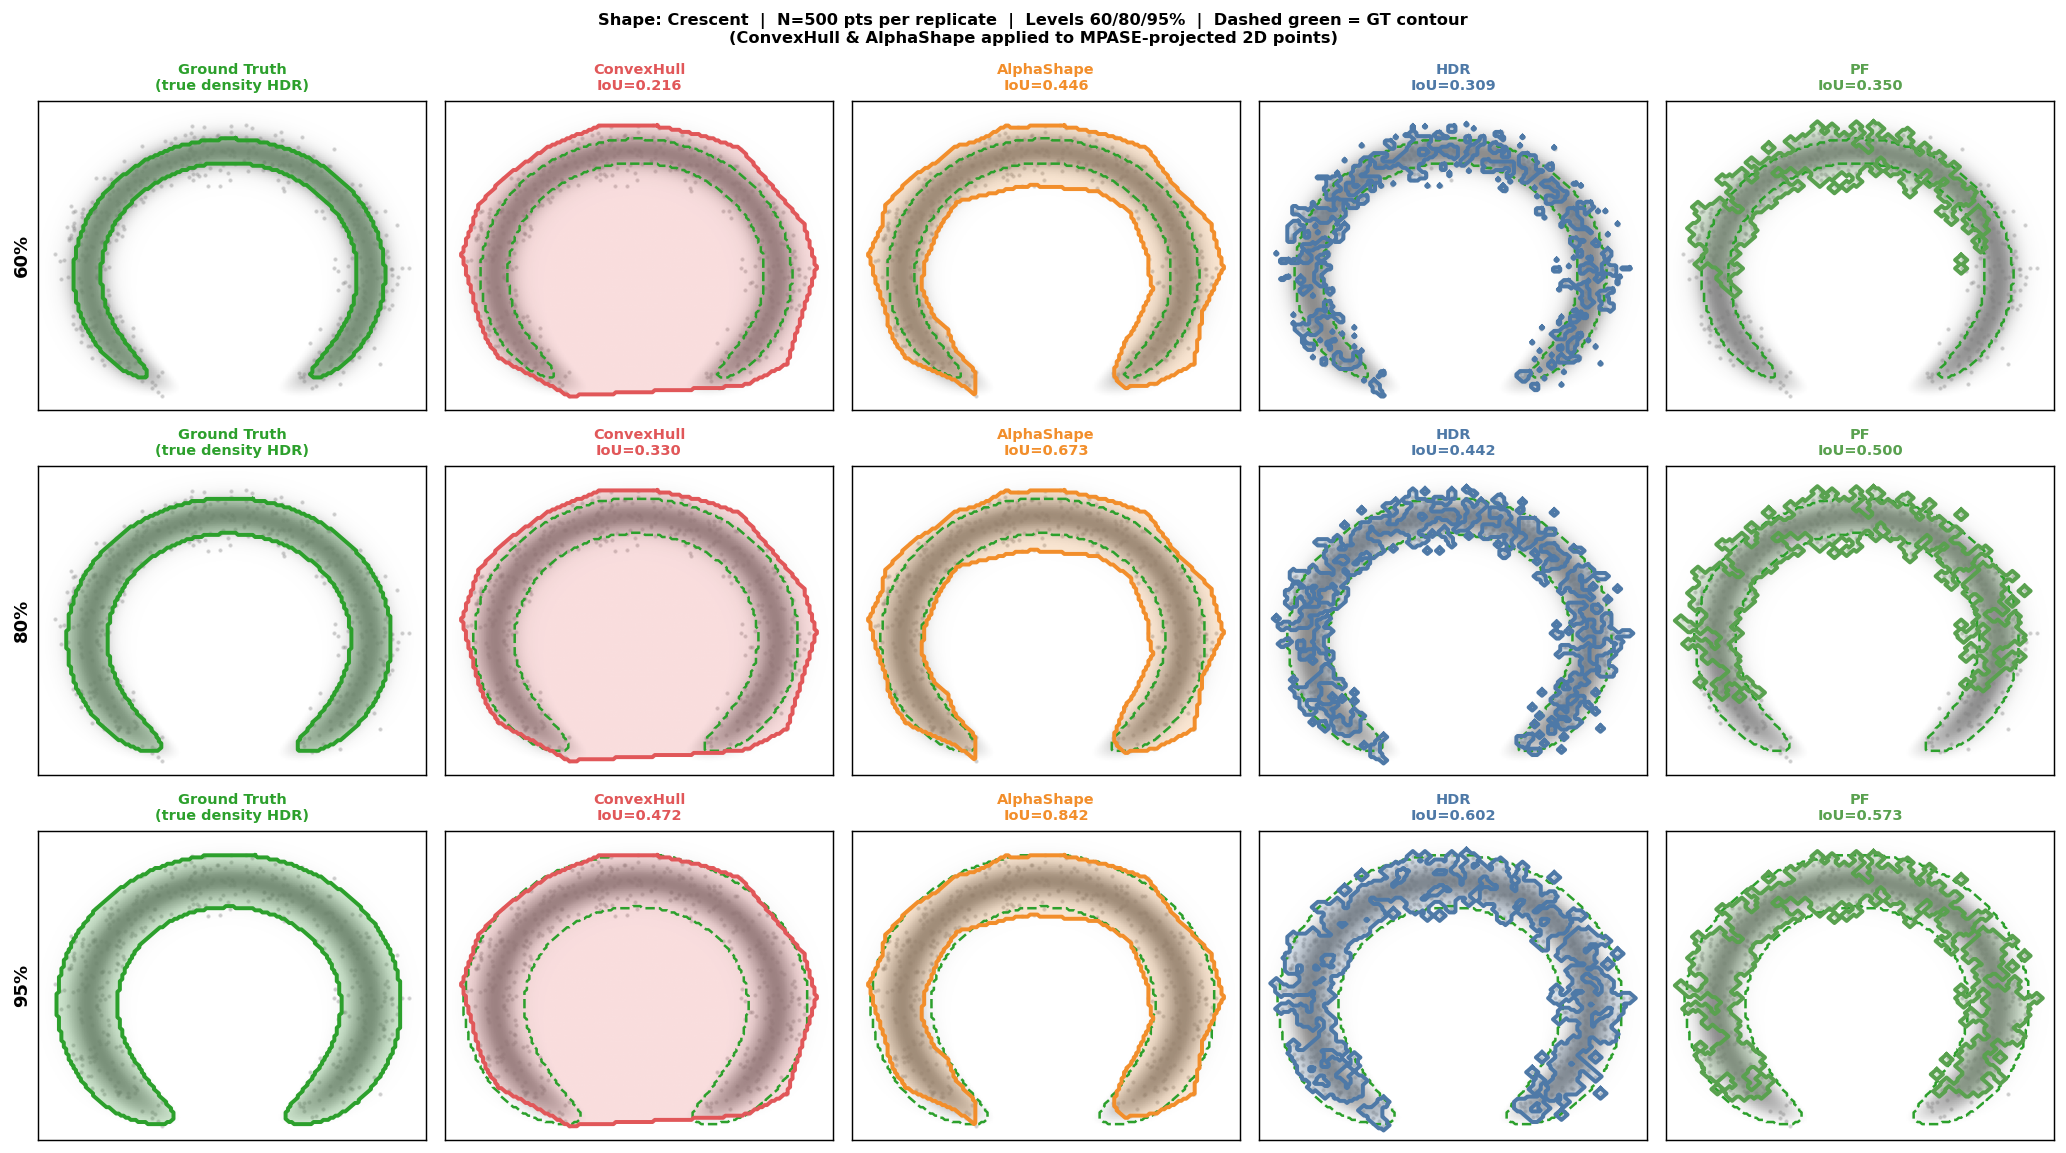
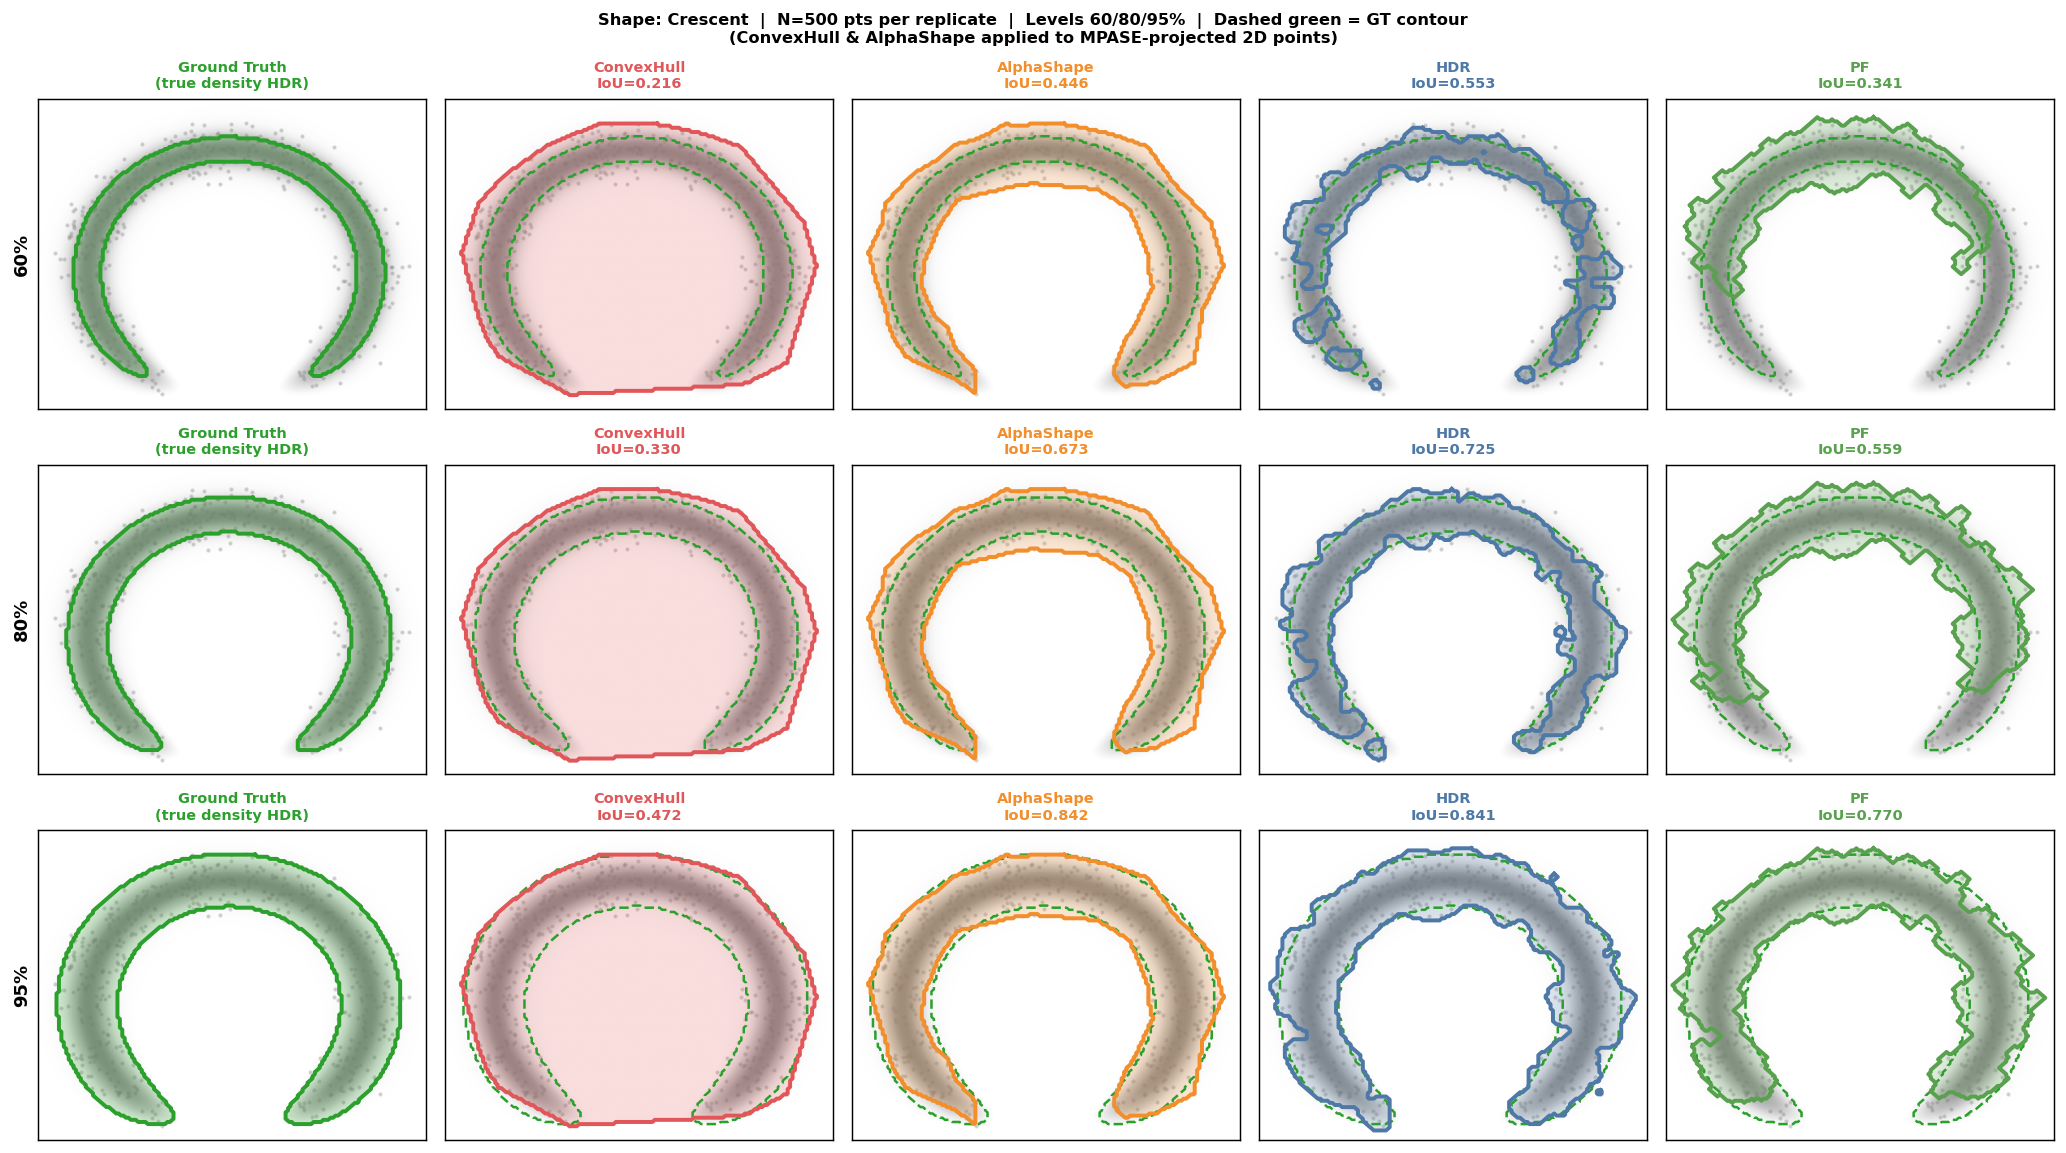
update

diff --git a/evaluation/eval_synthetic/run.py b/evaluation/eval_synthetic/run.py
@@ -68,8 +68,22 @@ PALETTE = {
     "PF":         "#59a14f",
 }
 
-CFG_HDR = mpase.CfgHDR(n_boot=N_BOOT, mass_levels=tuple(lv / 100.0 for lv in LEVELS))
-CFG_PF  = mpase.CfgPF(frac_levels=tuple(lv / 100.0 for lv in LEVELS))
+CFG_HDR = mpase.CfgHDR(
+    n_boot=N_BOOT,
+    mass_levels=tuple(lv / 100.0 for lv in LEVELS),
+    sigma_px=3.0,            # stronger smoothing for sparse N=500 point clouds
+    density_floor_frac=0.01, # trim faint noise blobs before thresholding
+)
+CFG_PF = mpase.CfgPF(
+    frac_levels=tuple(lv / 100.0 for lv in LEVELS),
+    disk_px=3,               # larger rasterization disks for smoother fill
+    morph=mpase.CfgMorph(
+        closing=3,           # merge nearby point blobs
+        opening=1,
+        keep_largest=False,  # preserve two-lobe and ring topology
+        fill_holes=False,    # preserve ring's inner hole
+    ),
+)
 
 
 # ── 2D density functions ──────────────────────────────────────────────────────
